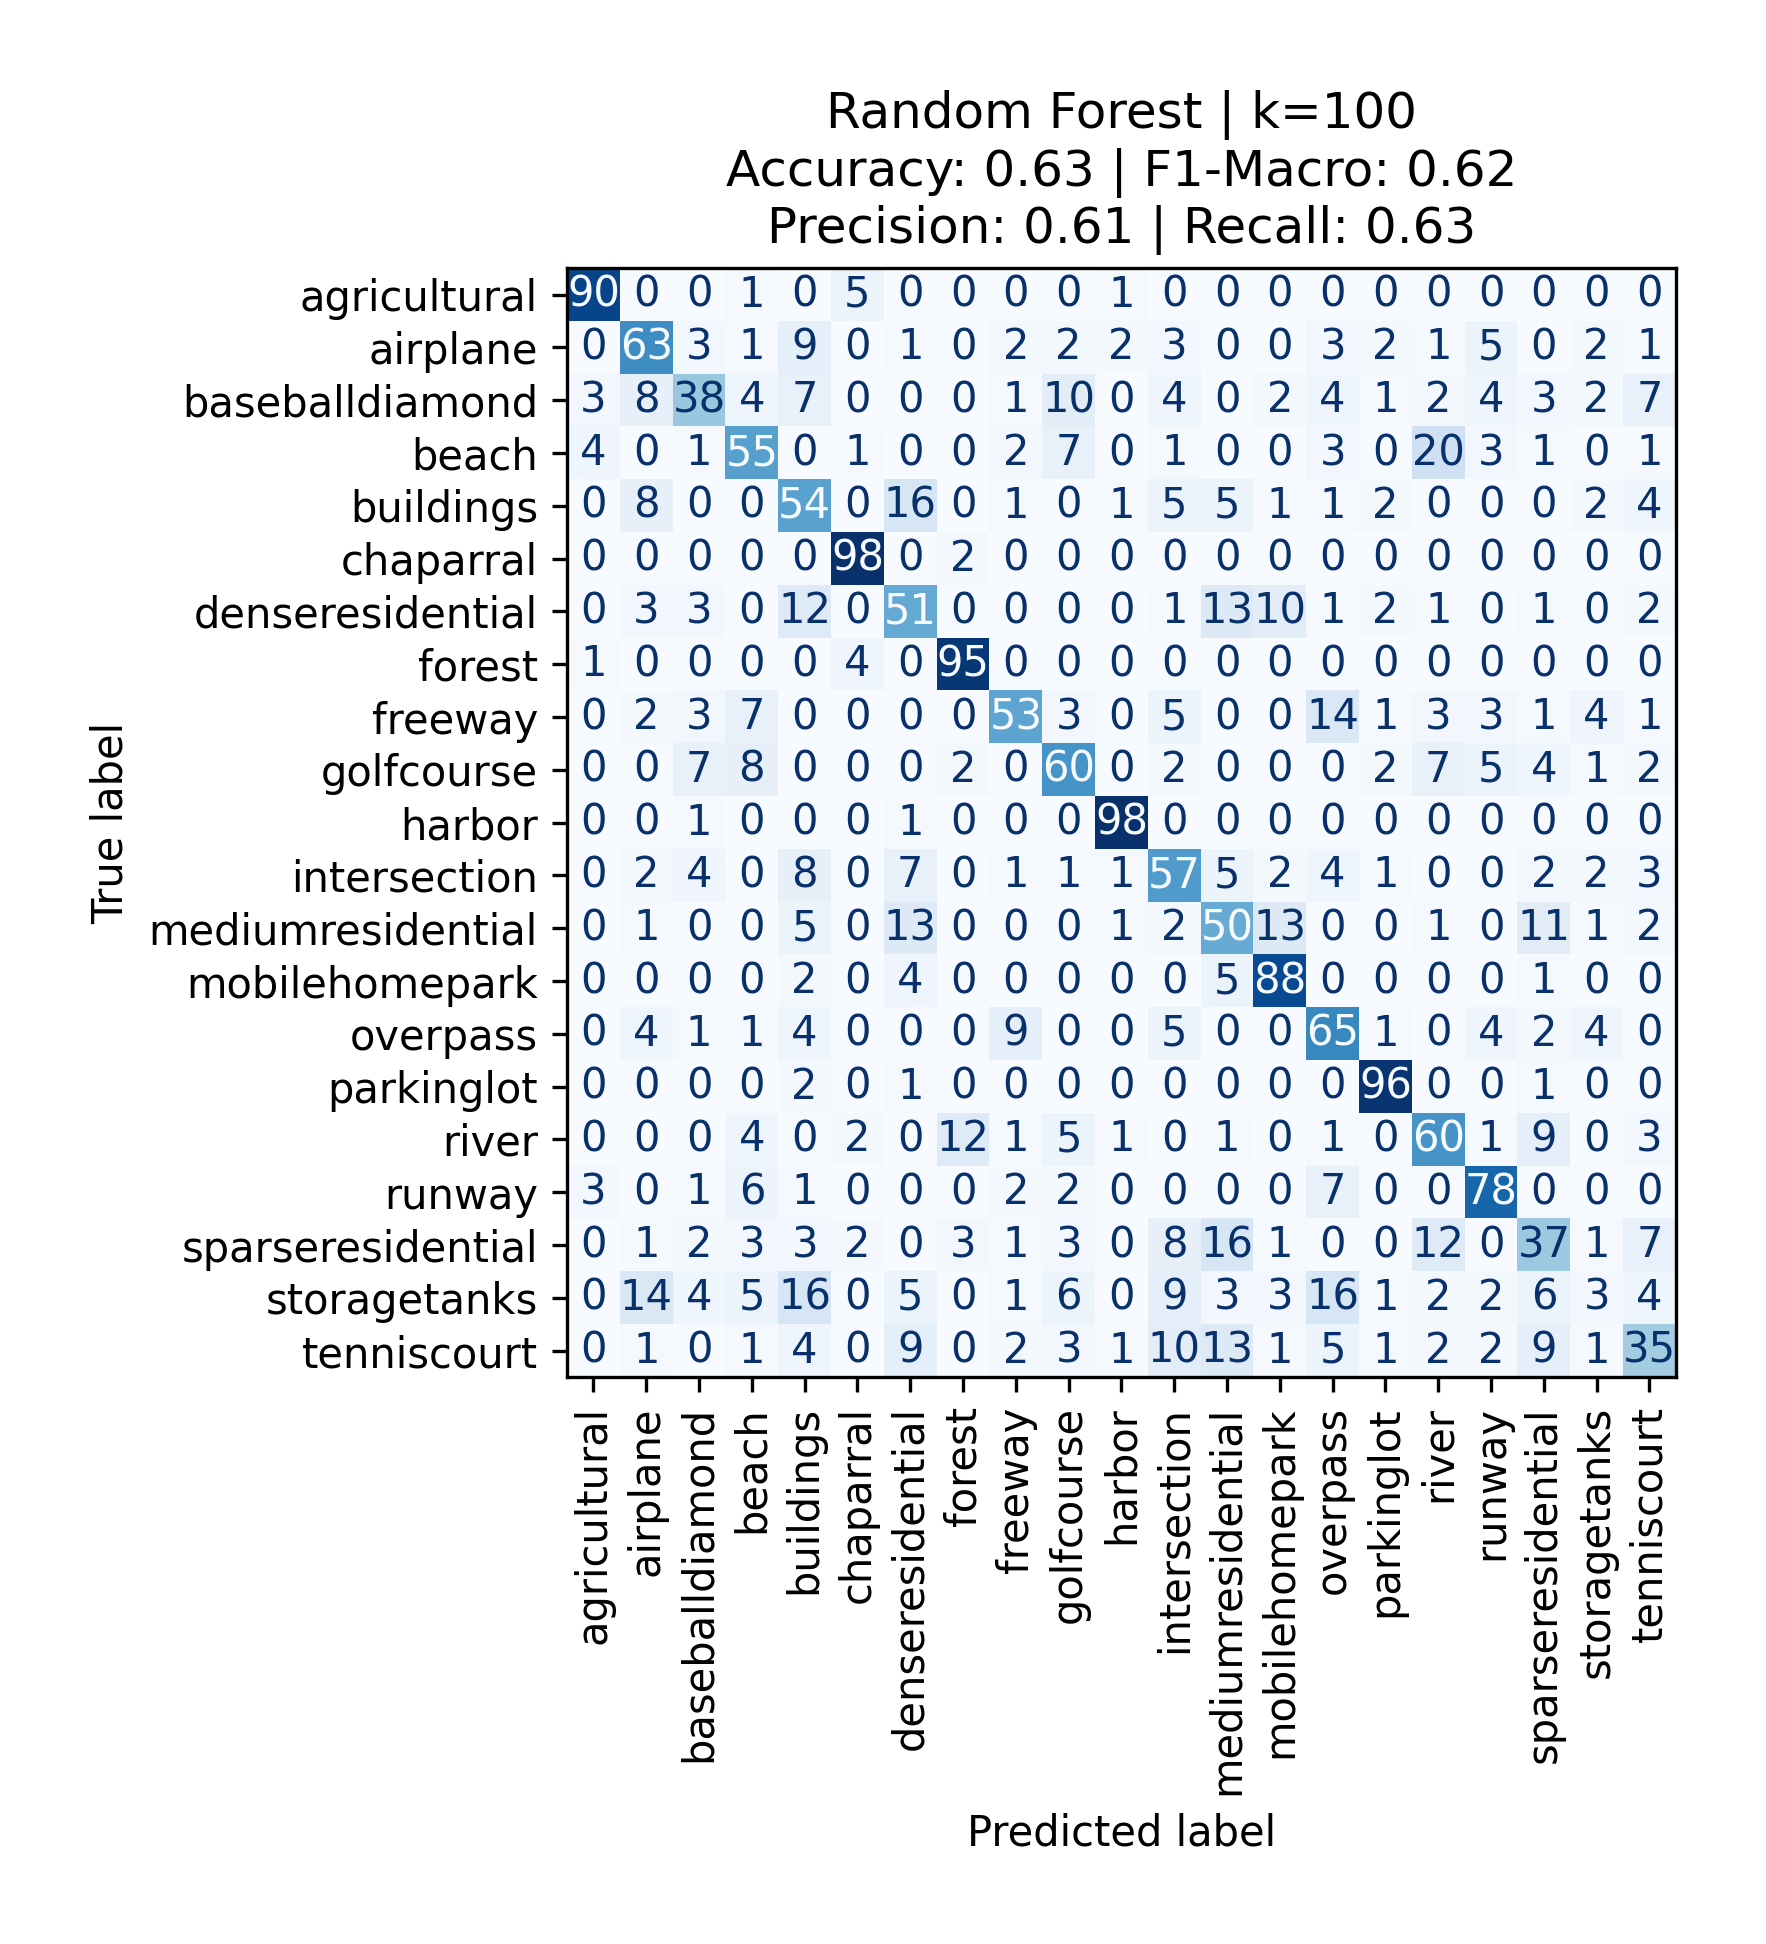
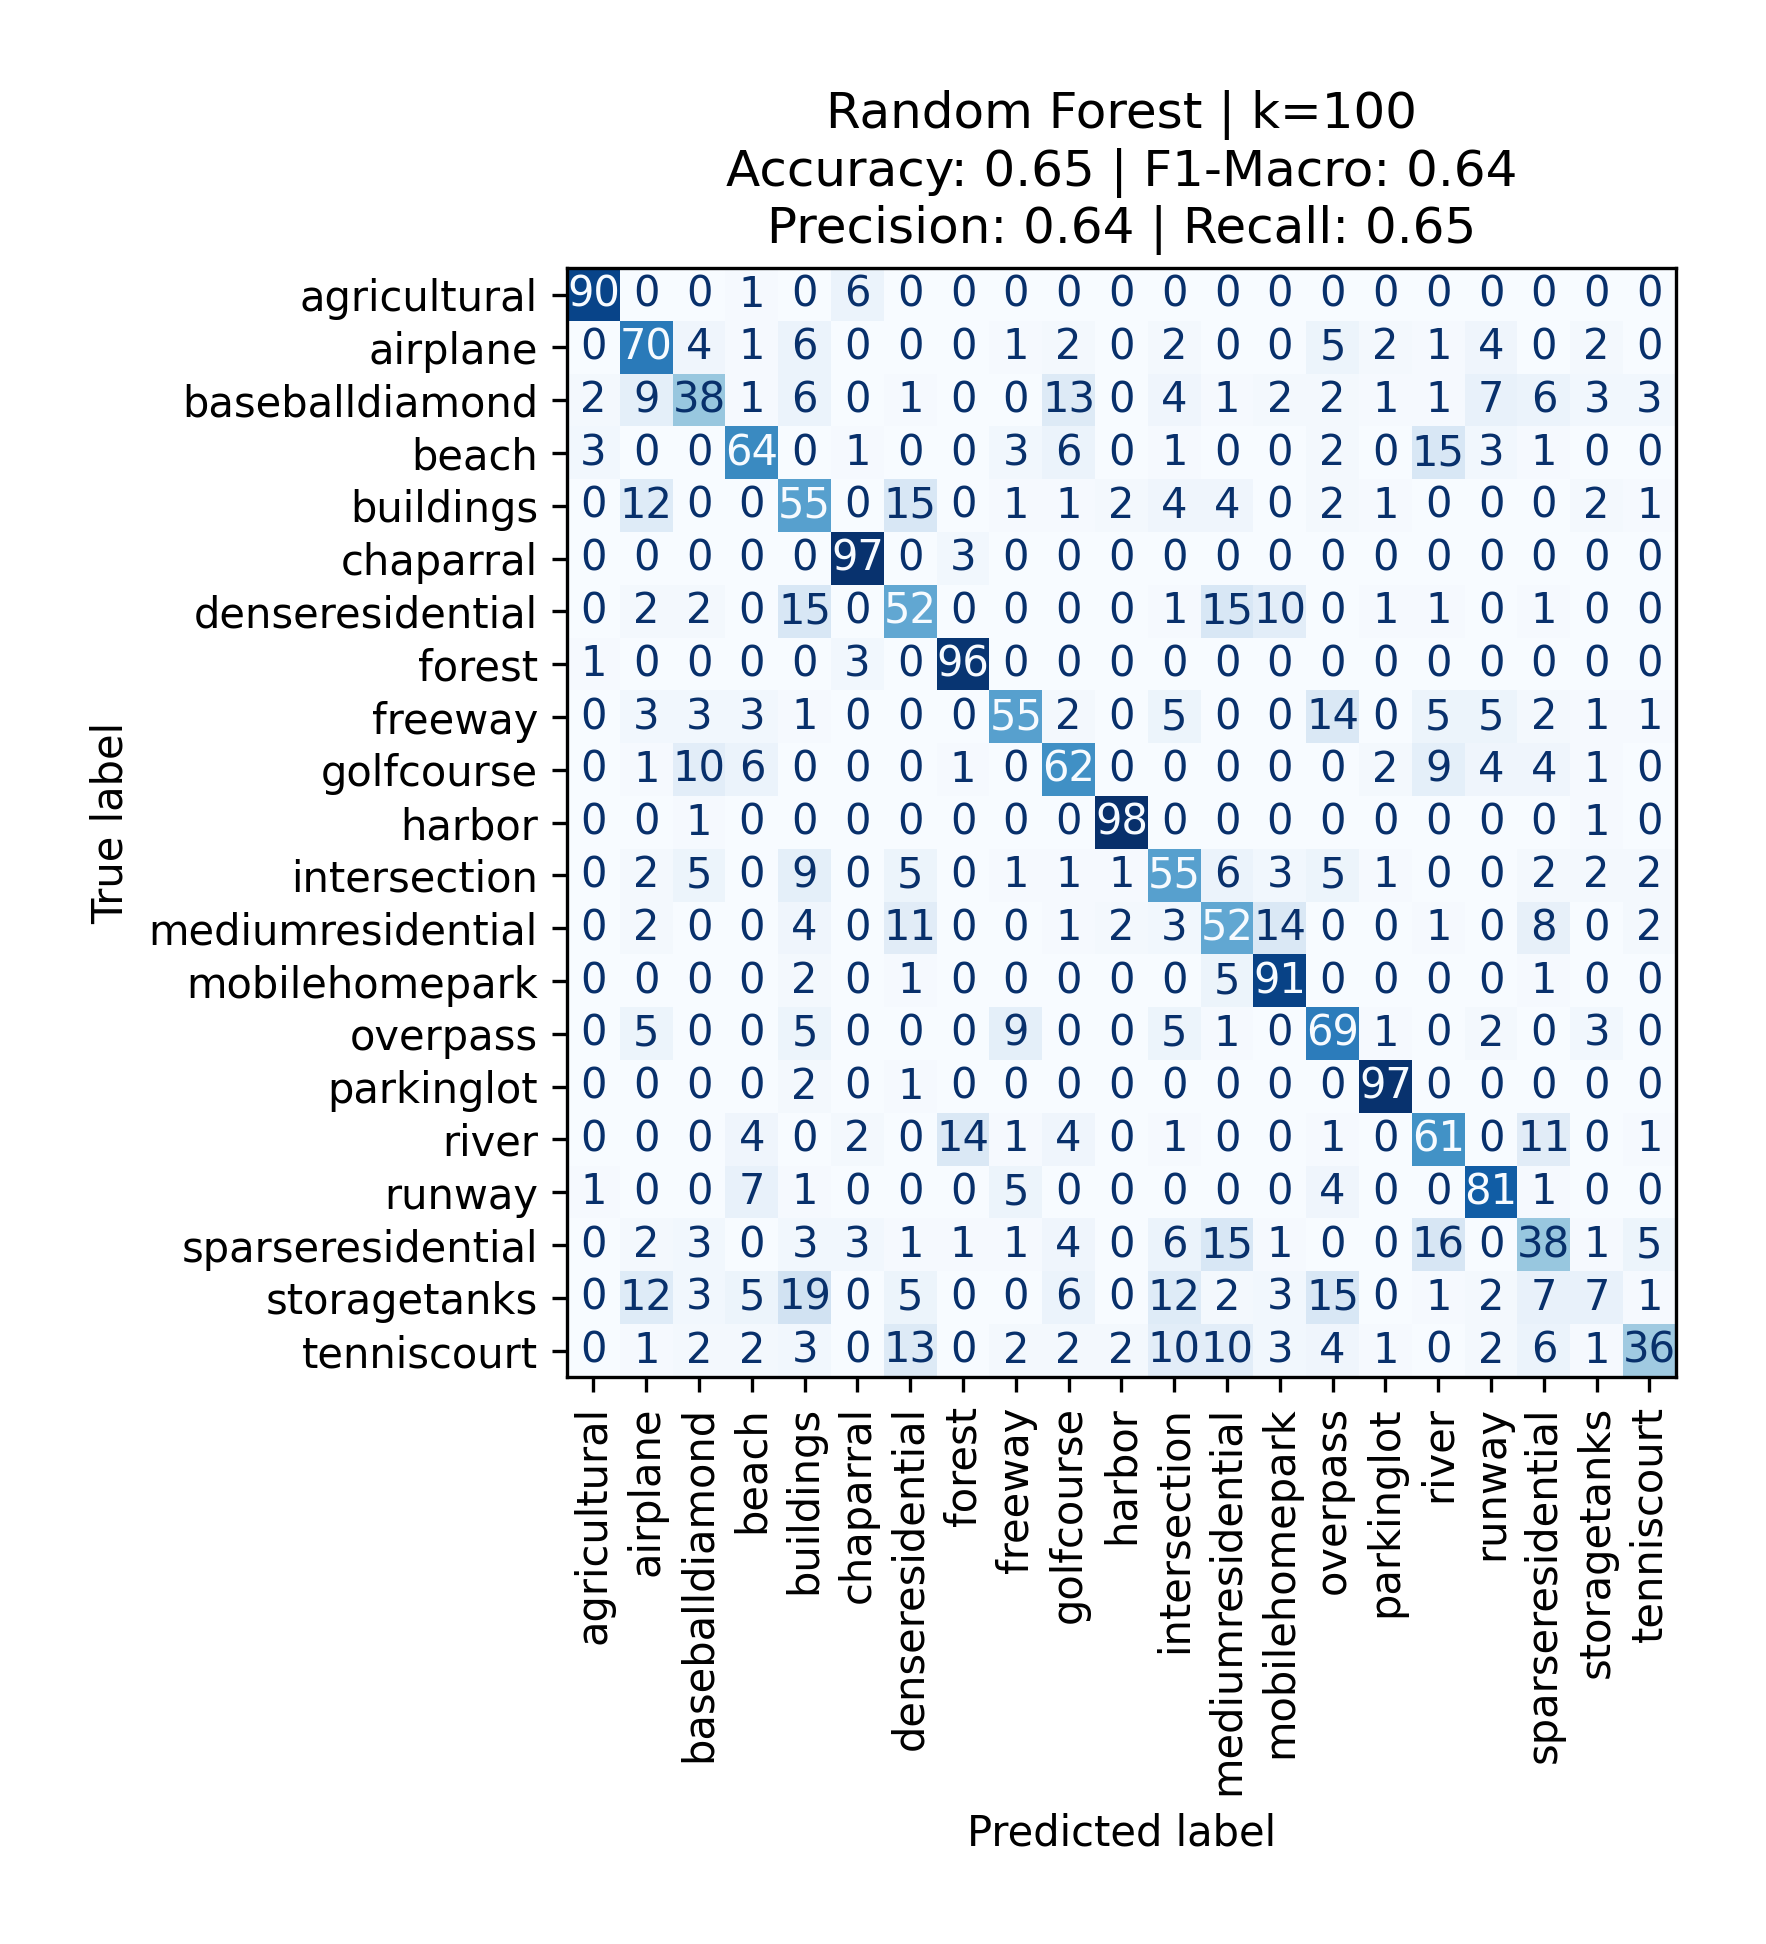
fix: update Random Forest parameters and improve comments in evaluation script; add new confusion matrix images

diff --git a/Progetto_Esame/Assignment_2/4-valutazione_classificatori.py b/Progetto_Esame/Assignment_2/4-valutazione_classificatori.py
@@ -18,7 +18,7 @@ skf = StratifiedKFold(n_splits=3, shuffle=True, random_state=42)
 
 modelli = {
     'Logistic Regression': LogisticRegression(random_state=42, max_iter=1000),
-    'Random Forest': RandomForestClassifier(random_state=42),
+    'Random Forest': RandomForestClassifier(random_state=42, n_estimators=400),
     'SVM': SVC(kernel='rbf', random_state=42)
 }
 
@@ -36,8 +36,8 @@ for k in [50, 100, 500]:
 
         #cross_val_predict esegue la cross-validation e restituisce le predizioni per ogni campione,
         #ottenute dal modello addestrato sui fold di training corrispondenti.
-        #il modello viene addestrato separatamente su ogni fold in thread paralleli (n_jobs=-1).
-        #ogni ciclo di addestramento e predizione è indipendente dagli altri.
+        #il modello viene addestrato separatamente su ogni fold in jobs paralleli (n_jobs=-1).
+        #ogni ciclo di addestramento e predizione è completamente indipendente dagli altri.
         #il modello viene clonato automaticamente dal dizionario prima di ogni addestramento. 
         y_pred = cross_val_predict(modello, X, y, cv=skf, n_jobs=-1)
 
@@ -87,7 +87,7 @@ print(risultati)
 
 #################
 # di seguito addestro il modello finale con il miglior k e il miglior classificatore sull'intoro dataset 
-# senza distinzioni tra train e test set) così da poterlo utilizzare per l'inferenza sulla singola immagine di test
+# (senza distinzioni tra train e test set) così da poterlo utilizzare per l'inferenza su immagini fuori dal dataset
 # (come suggerito a lezione)
 #################
 